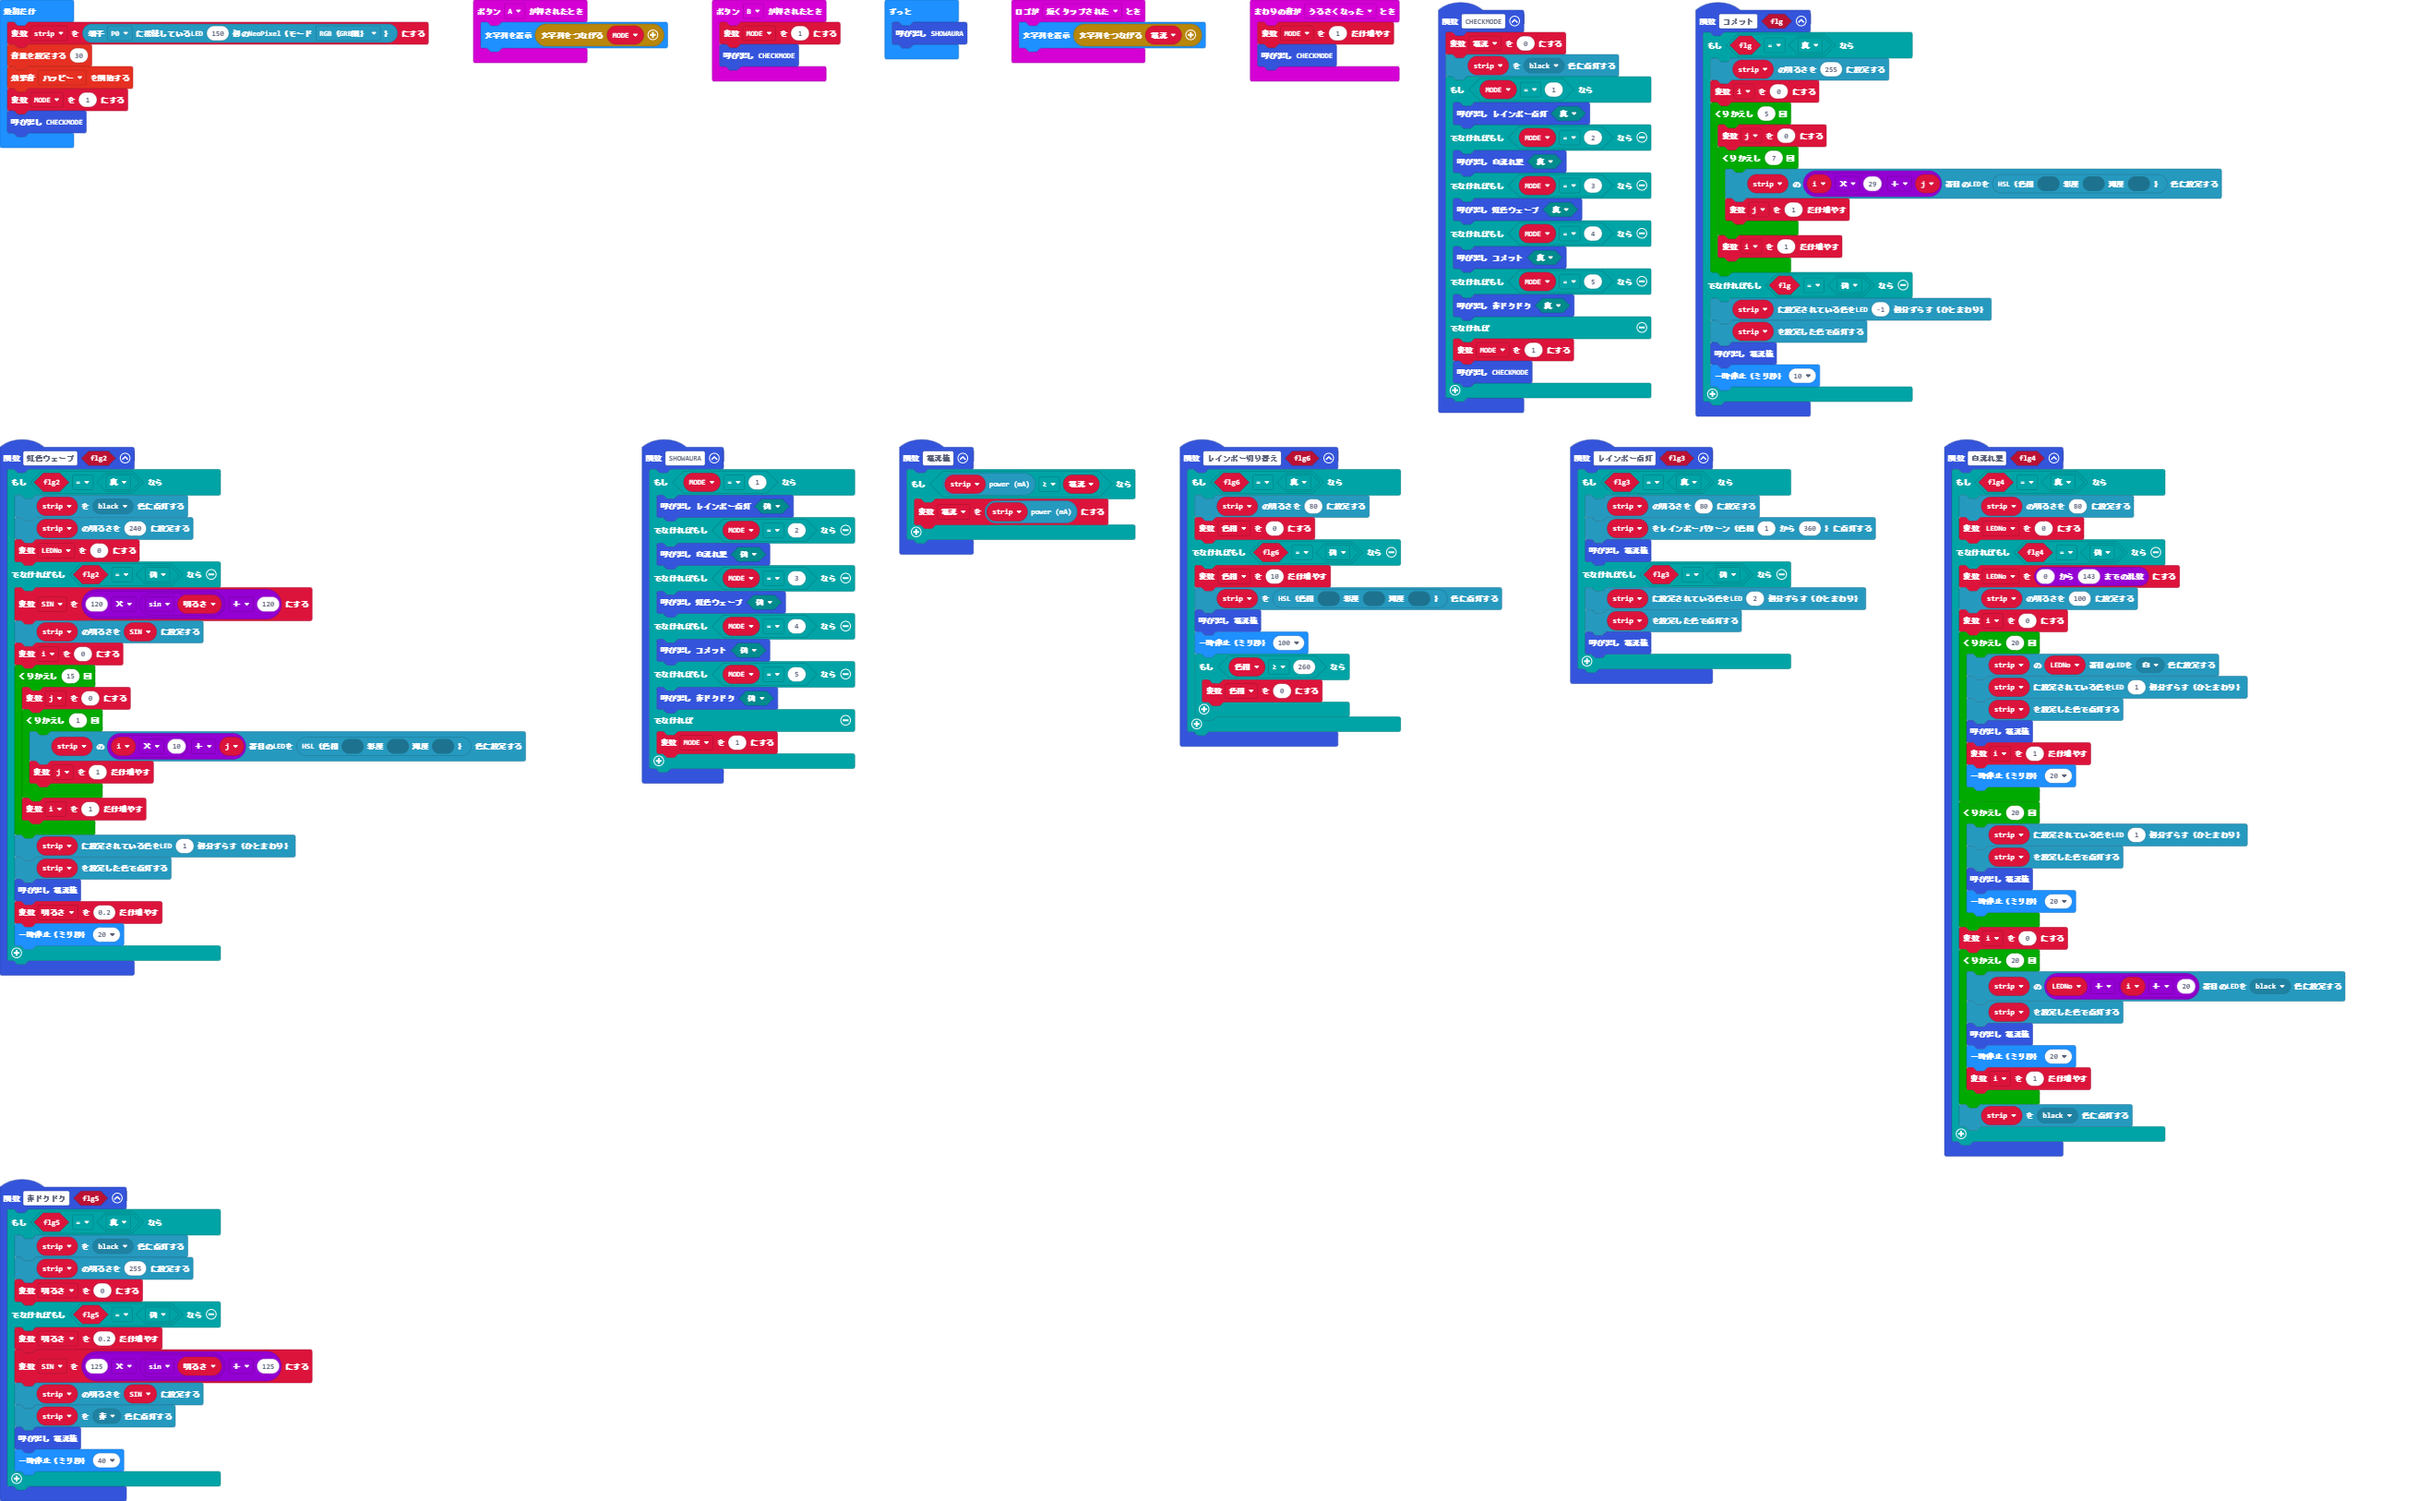
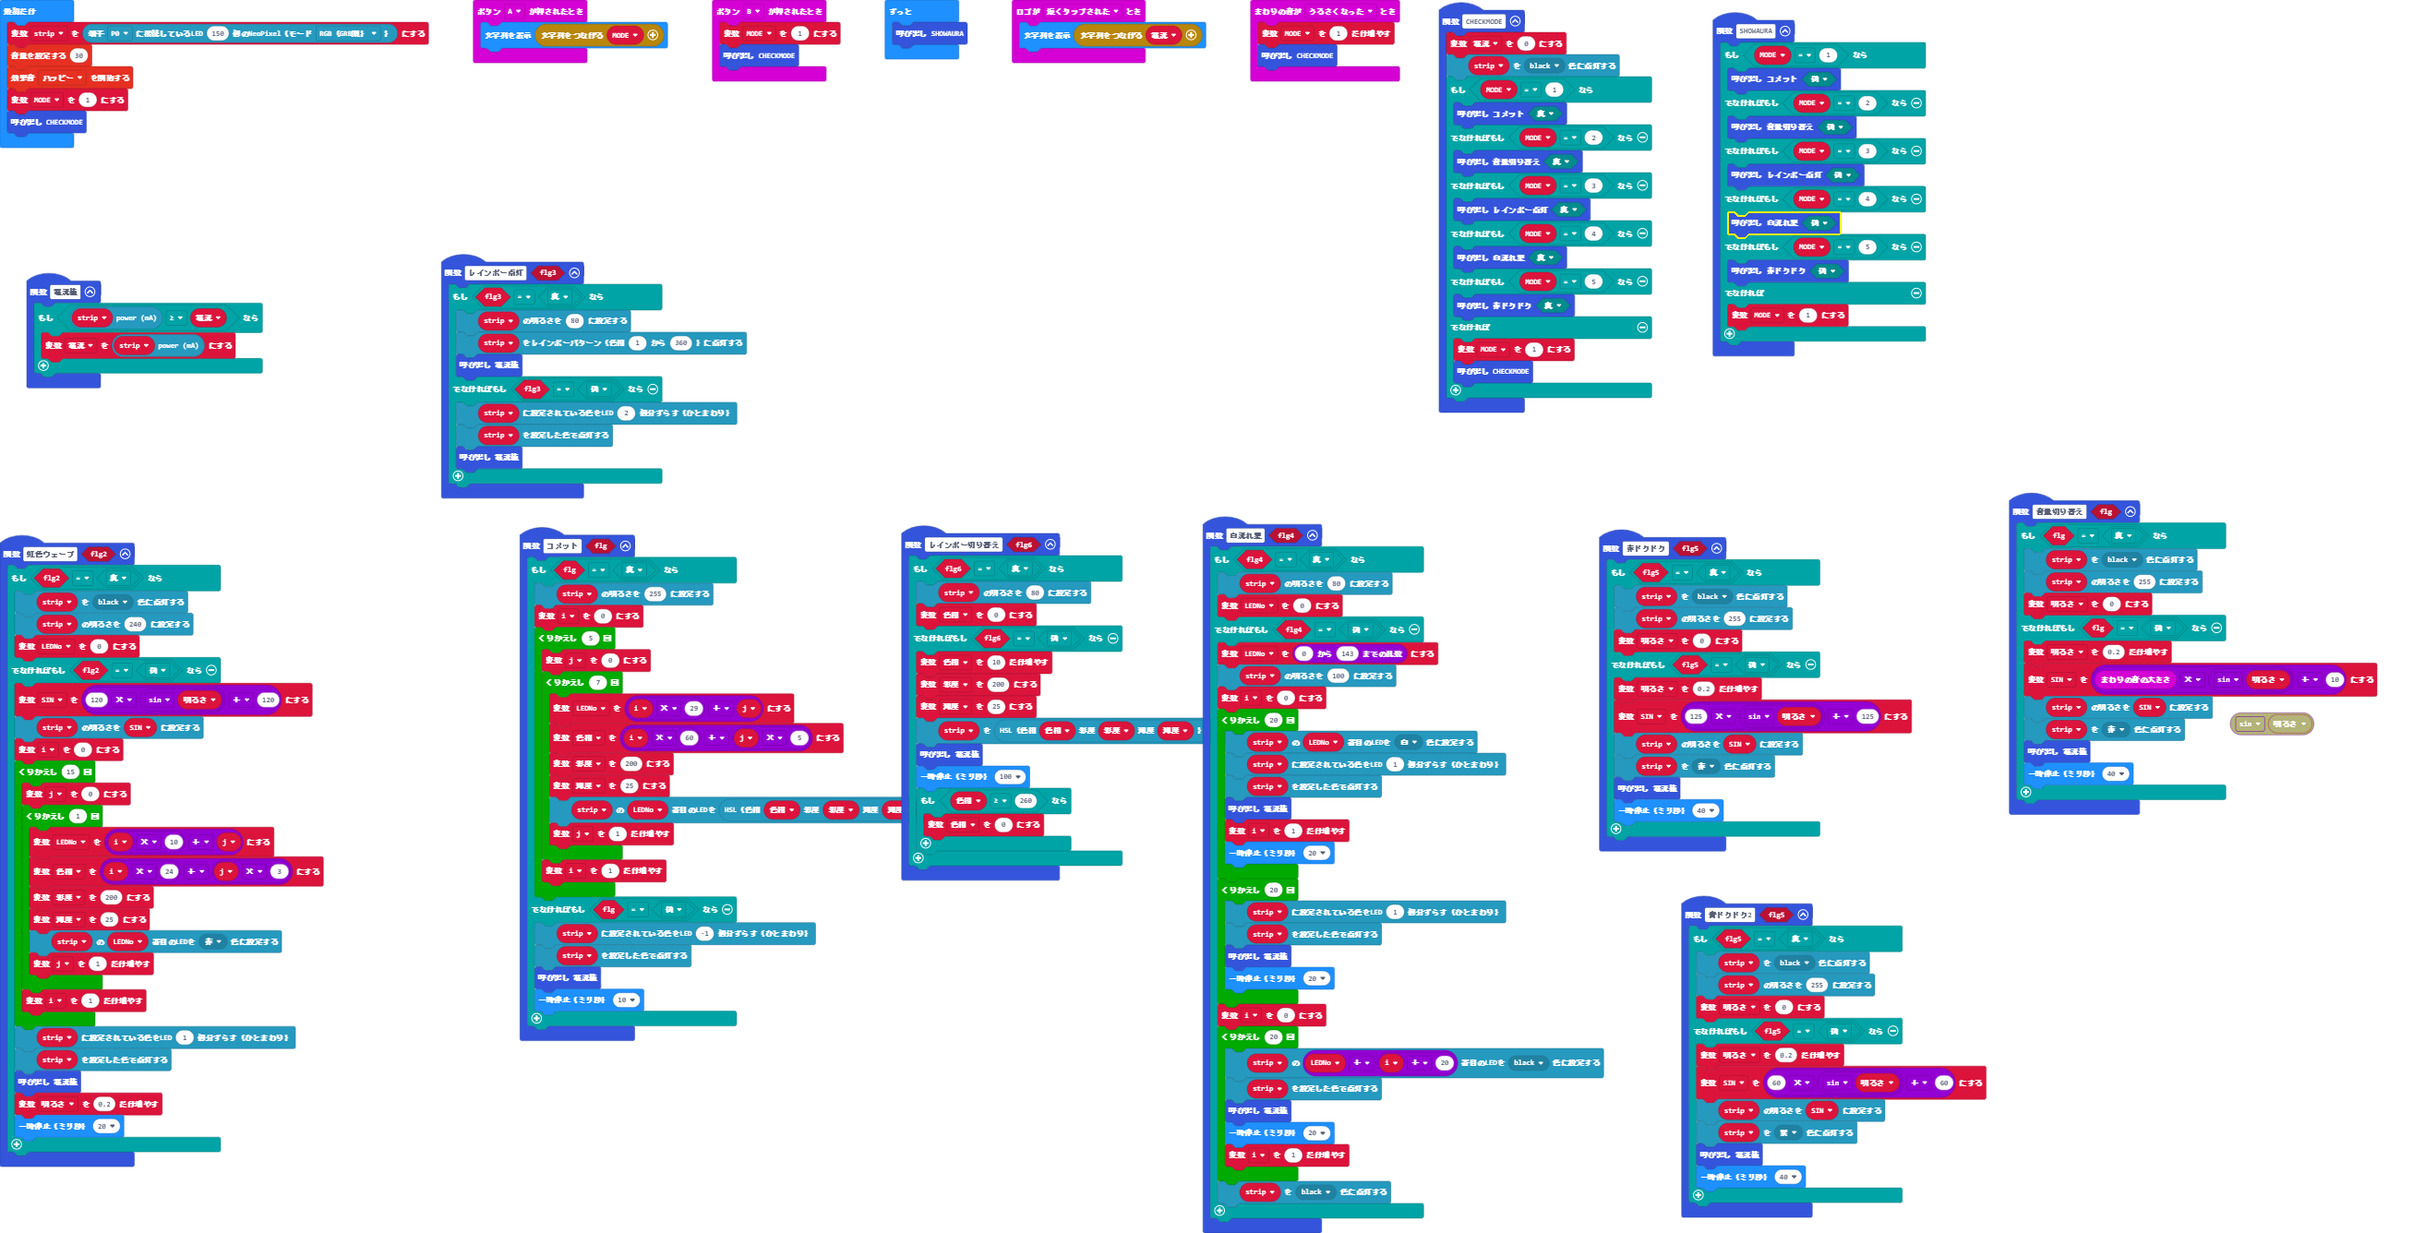
更新 pxt.json, main.blocks, main.ts, main.py

diff --git a/main.ts b/main.ts
@@ -1,36 +1,36 @@
-function CHECKMODE() {
-    
+function CHECKMODE () {
     電流 = 0
     strip.showColor(neopixel.colors(NeoPixelColors.Black))
     if (MODE == 1) {
-        レインボー点灯(true)
-    } else if (MODE == 2) {
-        白流れ星(true)
-    } else if (MODE == 3) {
-        虹色ウェーブ(true)
-    } else if (MODE == 4) {
         コメット(true)
+    } else if (MODE == 2) {
+        音量切り替え(true)
+    } else if (MODE == 3) {
+        レインボー点灯(true)
+    } else if (MODE == 4) {
+        白流れ星(true)
     } else if (MODE == 5) {
         赤ドクドク(true)
     } else {
         MODE = 1
         CHECKMODE()
     }
-    
 }
-
-input.onButtonPressed(Button.A, function on_button_pressed_a() {
-    basic.showString("" + ("" + MODE))
+input.onButtonPressed(Button.A, function () {
+    basic.showString("" + MODE)
 })
-function コメット(flg: boolean) {
-    
+function コメット (flg: boolean) {
     if (flg == true) {
         strip.setBrightness(255)
         i = 0
         for (let index = 0; index < 5; index++) {
             j = 0
-            for (let index2 = 0; index2 < 7; index2++) {
-                strip.setPixelColor(i * 29 + j, neopixel.hsl(i * 72 + j, 200, 25))
+            for (let index = 0; index < 7; index++) {
+                LEDNo = i * 29 + j
+                色相 = i * 60 + j * 5
+                彩度 = 200
+                輝度 = 25
+                strip.setPixelColor(LEDNo, neopixel.hsl(色相, 彩度, 輝度))
                 j += 1
             }
             i += 1
@@ -41,11 +41,8 @@ function コメット(flg: boolean) {
         電流値()
         basic.pause(10)
     }
-    
 }
-
-function 虹色ウェーブ(flg2: boolean) {
-    
+function 虹色ウェーブ (flg2: boolean) {
     if (flg2 == true) {
         strip.showColor(neopixel.colors(NeoPixelColors.Black))
         strip.setBrightness(240)
@@ -54,10 +51,14 @@ function 虹色ウェーブ(flg2: boolean) {
         SIN = 120 * Math.sin(明るさ) + 120
         strip.setBrightness(SIN)
         i = 0
-        for (let index3 = 0; index3 < 15; index3++) {
+        for (let index = 0; index < 15; index++) {
             j = 0
-            for (let index4 = 0; index4 < 1; index4++) {
-                strip.setPixelColor(i * 10 + j, neopixel.hsl(i * 24 + j, 200, 25))
+            for (let index = 0; index < 1; index++) {
+                LEDNo = i * 10 + j
+                色相 = i * 24 + j * 3
+                彩度 = 200
+                輝度 = 25
+                strip.setPixelColor(LEDNo, neopixel.colors(NeoPixelColors.Red))
                 j += 1
             }
             i += 1
@@ -68,15 +69,12 @@ function 虹色ウェーブ(flg2: boolean) {
         明るさ += 0.2
         basic.pause(20)
     }
-    
 }
-
-input.onSound(DetectedSound.Loud, function on_sound_loud() {
-    
+input.onSound(DetectedSound.Loud, function () {
     MODE += 1
     CHECKMODE()
 })
-function レインボー点灯(flg3: boolean) {
+function レインボー点灯 (flg3: boolean) {
     if (flg3 == true) {
         strip.setBrightness(80)
         strip.showRainbow(1, 360)
@@ -86,11 +84,8 @@ function レインボー点灯(flg3: boolean) {
         strip.show()
         電流値()
     }
-    
 }
-
-function 白流れ星(flg4: boolean) {
-    
+function 白流れ星 (flg4: boolean) {
     if (flg4 == true) {
         strip.setBrightness(80)
         LEDNo = 0
@@ -98,7 +93,7 @@ function 白流れ星(flg4: boolean) {
         LEDNo = randint(0, 143)
         strip.setBrightness(100)
         i = 0
-        for (let index5 = 0; index5 < 20; index5++) {
+        for (let index = 0; index < 20; index++) {
             strip.setPixelColor(LEDNo, neopixel.colors(NeoPixelColors.White))
             strip.rotate(1)
             strip.show()
@@ -106,14 +101,14 @@ function 白流れ星(flg4: boolean) {
             i += 1
             basic.pause(20)
         }
-        for (let index6 = 0; index6 < 20; index6++) {
+        for (let index = 0; index < 20; index++) {
             strip.rotate(1)
             strip.show()
             電流値()
             basic.pause(20)
         }
         i = 0
-        for (let index7 = 0; index7 < 20; index7++) {
+        for (let index = 0; index < 20; index++) {
             strip.setPixelColor(LEDNo + (i + 20), neopixel.colors(NeoPixelColors.Black))
             strip.show()
             電流値()
@@ -122,45 +117,49 @@ function 白流れ星(flg4: boolean) {
         }
         strip.showColor(neopixel.colors(NeoPixelColors.Black))
     }
-    
 }
-
-function SHOWAURA() {
-    
+function 音量切り替え (flg: boolean) {
+    if (flg == true) {
+        strip.showColor(neopixel.colors(NeoPixelColors.Black))
+        strip.setBrightness(255)
+        明るさ = 0
+    } else if (flg == false) {
+        明るさ += 0.2
+        SIN = input.soundLevel() * Math.sin(明るさ) + 10
+        strip.setBrightness(SIN)
+        strip.showColor(neopixel.colors(NeoPixelColors.Red))
+        電流値()
+        basic.pause(40)
+    }
+}
+function SHOWAURA () {
     if (MODE == 1) {
-        レインボー点灯(false)
-    } else if (MODE == 2) {
-        白流れ星(false)
-    } else if (MODE == 3) {
-        虹色ウェーブ(false)
-    } else if (MODE == 4) {
         コメット(false)
+    } else if (MODE == 2) {
+        音量切り替え(false)
+    } else if (MODE == 3) {
+        レインボー点灯(false)
+    } else if (MODE == 4) {
+        白流れ星(false)
     } else if (MODE == 5) {
         赤ドクドク(false)
     } else {
         MODE = 1
     }
-    
 }
-
-input.onButtonPressed(Button.B, function on_button_pressed_b() {
-    
+input.onButtonPressed(Button.B, function () {
     MODE = 1
     CHECKMODE()
 })
-function 電流値() {
-    
+function 電流値 () {
     if (strip.power() >= 電流) {
         電流 = strip.power()
     }
-    
 }
-
-input.onLogoEvent(TouchButtonEvent.Pressed, function on_logo_pressed() {
-    basic.showString("" + ("" + 電流))
+input.onLogoEvent(TouchButtonEvent.Pressed, function () {
+    basic.showString("" + 電流)
 })
-function 赤ドクドク(flg5: boolean) {
-    
+function 赤ドクドク (flg5: boolean) {
     if (flg5 == true) {
         strip.showColor(neopixel.colors(NeoPixelColors.Black))
         strip.setBrightness(255)
@@ -173,41 +172,53 @@ function 赤ドクドク(flg5: boolean) {
         電流値()
         basic.pause(40)
     }
-    
 }
-
-function レインボー切り替え(flg6: boolean) {
-    
+function 青ドクドク2 (flg5: boolean) {
+    if (flg5 == true) {
+        strip.showColor(neopixel.colors(NeoPixelColors.Black))
+        strip.setBrightness(255)
+        明るさ = 0
+    } else if (flg5 == false) {
+        明るさ += 0.2
+        SIN = 60 * Math.sin(明るさ) + 60
+        strip.setBrightness(SIN)
+        strip.showColor(neopixel.colors(NeoPixelColors.Purple))
+        電流値()
+        basic.pause(40)
+    }
+}
+function レインボー切り替え (flg6: boolean) {
     if (flg6 == true) {
         strip.setBrightness(80)
         色相 = 0
     } else if (flg6 == false) {
         色相 += 10
-        strip.showColor(neopixel.hsl(色相, 200, 25))
+        彩度 = 200
+        輝度 = 25
+        strip.showColor(neopixel.hsl(色相, 彩度, 輝度))
         電流値()
         basic.pause(100)
         if (色相 >= 260) {
             色相 = 0
         }
-        
     }
-    
 }
-
-let 色相 = 0
 let 明るさ = 0
 let SIN = 0
+let 輝度 = 0
+let 彩度 = 0
+let 色相 = 0
 let LEDNo = 0
 let j = 0
 let i = 0
 let 電流 = 0
 let MODE = 0
-let strip : neopixel.Strip = null
+let strip: neopixel.Strip = null
 strip = neopixel.create(DigitalPin.P0, 150, NeoPixelMode.RGB)
 music.setVolume(30)
 soundExpression.happy.play()
 MODE = 1
 CHECKMODE()
-basic.forever(function on_forever() {
+basic.forever(function () {
     SHOWAURA()
 })

diff --git a/main.py b/main.py
@@ -21,14 +21,18 @@ def on_button_pressed_a():
 input.on_button_pressed(Button.A, on_button_pressed_a)
 
 def コメット(flg: bool):
-    global i, j
+    global i, j, LEDNo, 色相, 彩度, 輝度
     if flg == True:
         strip.set_brightness(255)
         i = 0
         for index in range(5):
             j = 0
             for index2 in range(7):
-                strip.set_pixel_color(i * 29 + j, neopixel.hsl(i * 72 + j, 200, 25))
+                LEDNo = i * 29 + j
+                色相 = i * 60 + j * 5
+                彩度 = 200
+                輝度 = 25
+                strip.set_pixel_color(LEDNo, neopixel.hsl(色相, 彩度, 輝度))
                 j += 1
             i += 1
     elif flg == False:
@@ -37,7 +41,7 @@ def コメット(flg: bool):
         電流値()
         basic.pause(10)
 def 虹色ウェーブ(flg2: bool):
-    global LEDNo, SIN, i, j, 明るさ
+    global LEDNo, SIN, i, j, 色相, 彩度, 輝度, 明るさ
     if flg2 == True:
         strip.show_color(neopixel.colors(NeoPixelColors.BLACK))
         strip.set_brightness(240)
@@ -49,7 +53,11 @@ def 虹色ウェーブ(flg2: bool):
         for index3 in range(15):
             j = 0
             for index4 in range(1):
-                strip.set_pixel_color(i * 10 + j, neopixel.hsl(i * 24 + j, 200, 25))
+                LEDNo = i * 10 + j
+                色相 = i * 24 + j * 3
+                彩度 = 200
+                輝度 = 25
+                strip.set_pixel_color(LEDNo, neopixel.hsl(0, 0, 0))
                 j += 1
             i += 1
         strip.rotate(1)
@@ -146,20 +154,24 @@ def 赤ドクドク(flg5: bool):
         電流値()
         basic.pause(40)
 def レインボー切り替え(flg6: bool):
-    global 色相
+    global 色相, 彩度, 輝度
     if flg6 == True:
         strip.set_brightness(80)
         色相 = 0
     elif flg6 == False:
         色相 += 10
-        strip.show_color(neopixel.hsl(色相, 200, 25))
+        彩度 = 200
+        輝度 = 25
+        strip.show_color(neopixel.hsl(0, 0, 0))
         電流値()
         basic.pause(100)
         if 色相 >= 260:
             色相 = 0
-色相 = 0
 明るさ = 0
 SIN = 0
+輝度 = 0
+彩度 = 0
+色相 = 0
 LEDNo = 0
 j = 0
 i = 0
